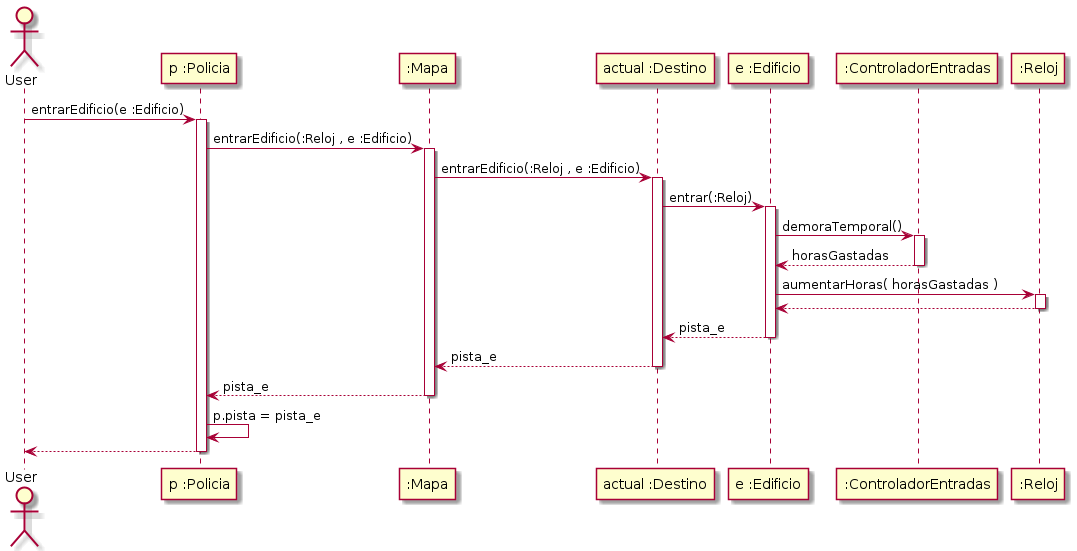
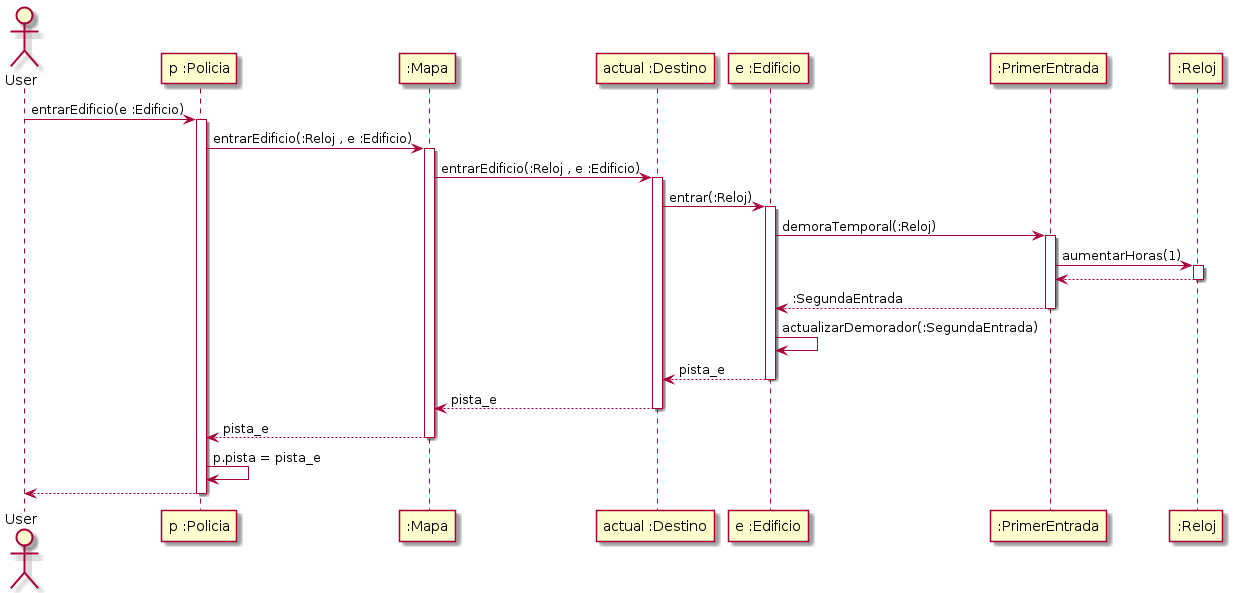
Refactor uso de clase Reloj

diff --git a/src/main/test/edu/fiuba/algo3/modelo/RangoTest.java b/src/main/test/edu/fiuba/algo3/modelo/RangoTest.java
@@ -1,87 +1,128 @@
 package edu.fiuba.algo3.modelo;
 
+import edu.fiuba.algo3.modelo.reloj.Reloj;
 import org.junit.jupiter.api.Test;
 import static org.junit.jupiter.api.Assertions.*;
 
 public class RangoTest {
     @Test
     public void rangoNovatoTardaCuatroHorasEnRecorrer3600() {
+        Reloj reloj = new Reloj();
         Rango rango = new Novato();
-        assertEquals(4, rango.demoraPorDistancia(3600));
+
+        rango.demoraPorDistancia(3600, reloj);
+
+        assertEquals("Lunes , 11:00", reloj.fechaActual());
     }
 
     @Test
     public void rangoNovatoTardaDosHorasEnRecorrer2000() {
-        //2000/900 < 2.5 - Redondea para abajo
+        Reloj reloj = new Reloj();
         Rango rango = new Novato();
-        assertEquals(2, rango.demoraPorDistancia(2000));
+
+        rango.demoraPorDistancia(2000, reloj);
+
+        assertEquals("Lunes , 9:00", reloj.fechaActual());
     }
 
     @Test
     public void rangoNovatoTardaDosHorasEnRecorrer1500(){
-        //1500/900 > 1.5 - Redondea para arriba
+        Reloj reloj = new Reloj();
         Rango rango = new Novato();
-        assertEquals(2, rango.demoraPorDistancia(1500));
+
+        rango.demoraPorDistancia(1500, reloj);
+
+        assertEquals("Lunes , 9:00", reloj.fechaActual());
     }
 
     @Test
     public void rangoDetectiveTardaCuatroHorasEnRecorrer4400(){
+        Reloj reloj = new Reloj();
         Rango rango = new Detective();
-        assertEquals(4, rango.demoraPorDistancia(4400));
+
+        rango.demoraPorDistancia(4400, reloj);
+
+        assertEquals("Lunes , 11:00", reloj.fechaActual());
     }
 
     @Test
     public void rangoDetectiveTardaDosHorasEnRecorrer2500() {
-        //2500/1100 < 2.5 - Redondea para abajo
+        Reloj reloj = new Reloj();
         Rango rango = new Detective();
-        assertEquals(2, rango.demoraPorDistancia(2500));
+
+        rango.demoraPorDistancia(2500, reloj);
+
+        assertEquals("Lunes , 9:00", reloj.fechaActual());
     }
 
     @Test
     public void rangoDetectiveTardaDosHorasEnRecorrer2000(){
-        //2000/1100 > 1.5 - Redondea para arriba
+        Reloj reloj = new Reloj();
         Rango rango = new Detective();
-        assertEquals(2, rango.demoraPorDistancia(2000));
+
+        rango.demoraPorDistancia(2000, reloj);
+
+        assertEquals("Lunes , 9:00", reloj.fechaActual());
     }
 
     @Test
     public void rangoInvestigadorTardaCuatroHorasEnRecorrer5200(){
+        Reloj reloj = new Reloj();
         Rango rango = new Investigador();
-        assertEquals(4, rango.demoraPorDistancia(5200));
+
+        rango.demoraPorDistancia(5200, reloj);
+
+        assertEquals("Lunes , 11:00", reloj.fechaActual());
     }
 
     @Test
     public void rangoInvestigadorTardaDosHorasEnRecorrer3000() {
-        //2500/1100 < 2.5 - Redondea para abajo
+        Reloj reloj = new Reloj();
         Rango rango = new Investigador();
-        assertEquals(2, rango.demoraPorDistancia(3000));
+
+        rango.demoraPorDistancia(3000, reloj);
+
+        assertEquals("Lunes , 9:00", reloj.fechaActual());
     }
 
     @Test
     public void rangoInvestigadorTardaDosHorasEnRecorrer2000(){
-        //2000/1100 > 1.5 - Redondea para arriba
+        Reloj reloj = new Reloj();
         Rango rango = new Investigador();
-        assertEquals(2, rango.demoraPorDistancia(2000));
+
+        rango.demoraPorDistancia(2000, reloj);
+
+        assertEquals("Lunes , 9:00", reloj.fechaActual());
     }
 
     @Test
     public void rangoSargentoTardaCuatroHorasEnRecorrer6000(){
+        Reloj reloj = new Reloj();
         Rango rango = new Sargento();
-        assertEquals(4, rango.demoraPorDistancia(6000));
+
+        rango.demoraPorDistancia(6000, reloj);
+
+        assertEquals("Lunes , 11:00", reloj.fechaActual());
     }
 
     @Test
     public void rangoSargentoTardaDosHorasEnRecorrer3500() {
-        //2500/1100 < 2.5 - Redondea para abajo
+        Reloj reloj = new Reloj();
         Rango rango = new Sargento();
-        assertEquals(2, rango.demoraPorDistancia(3500));
+
+        rango.demoraPorDistancia(3500, reloj);
+
+        assertEquals("Lunes , 9:00", reloj.fechaActual());
     }
 
     @Test
     public void rangoSargentoTardaDosHorasEnRecorrer2500(){
-        //2000/1100 > 1.5 - Redondea para arriba
+        Reloj reloj = new Reloj();
         Rango rango = new Sargento();
-        assertEquals(2, rango.demoraPorDistancia(2500));
+
+        rango.demoraPorDistancia(2500, reloj);
+
+        assertEquals("Lunes , 9:00", reloj.fechaActual());
     }
 
 }

diff --git a/src/main/java/edu/fiuba/algo3/modelo/Edificio.java b/src/main/java/edu/fiuba/algo3/modelo/Edificio.java
@@ -1,19 +1,21 @@
 package edu.fiuba.algo3.modelo;
 
+import edu.fiuba.algo3.modelo.demorador.DemoradorPorEntradas;
+import edu.fiuba.algo3.modelo.demorador.PrimerEntrada;
 import edu.fiuba.algo3.modelo.reloj.Reloj;
 
 public class Edificio {
 
     protected final Pista pista;
-    private final ControladorEntradas controlador;
+    private DemoradorPorEntradas demorador;
 
     public Edificio(Pista entrada){
         this.pista = entrada;
-        this.controlador = new ControladorEntradas();
+        this.demorador = new PrimerEntrada();
     }
 
     public Pista entrar(Reloj reloj) {
-        reloj.aumentarHoras(controlador.demoraTemporal());
+        this.demorador = demorador.demoraTemporal(reloj);
         return this.pista;
     }
 

diff --git a/src/main/java/edu/fiuba/algo3/modelo/Novato.java b/src/main/java/edu/fiuba/algo3/modelo/Novato.java
@@ -1,5 +1,7 @@
 package edu.fiuba.algo3.modelo;
 
+import edu.fiuba.algo3.modelo.reloj.Reloj;
+
 public class Novato implements Rango {
     private int arrestos;
     private int arrestosMaximos;
@@ -10,8 +12,8 @@ public class Novato implements Rango {
     }
 
     @Override
-    public int demoraPorDistancia(double distancia) {
-        return (int)Math.round(distancia/900.00);
+    public void demoraPorDistancia(double distancia, Reloj reloj) {
+        reloj.aumentarHoras( (int)Math.round(distancia/900.00) );
     }
     @Override
     public int cantidadDeArrestos(){return arrestos;}

diff --git a/src/main/java/edu/fiuba/algo3/modelo/Investigador.java b/src/main/java/edu/fiuba/algo3/modelo/Investigador.java
@@ -1,5 +1,7 @@
 package edu.fiuba.algo3.modelo;
 
+import edu.fiuba.algo3.modelo.reloj.Reloj;
+
 public class Investigador implements Rango {
 
     private int arrestos, arrestosMaximos;
@@ -10,8 +12,8 @@ public class Investigador implements Rango {
     }
 
     @Override
-    public int demoraPorDistancia(double distancia) {
-        return (int)Math.round(distancia/1300.00);
+    public void demoraPorDistancia(double distancia, Reloj reloj) {
+        reloj.aumentarHoras( (int)Math.round(distancia/1300.00) );
     }
     @Override
     public int cantidadDeArrestos(){return arrestos;}

diff --git a/src/main/java/edu/fiuba/algo3/modelo/Sargento.java b/src/main/java/edu/fiuba/algo3/modelo/Sargento.java
@@ -1,5 +1,7 @@
 package edu.fiuba.algo3.modelo;
 
+import edu.fiuba.algo3.modelo.reloj.Reloj;
+
 public class Sargento implements Rango {
     private int arrestos;
 
@@ -7,8 +9,8 @@ public class Sargento implements Rango {
         this.arrestos = 20;
     }
     @Override
-    public int demoraPorDistancia(double distancia) {
-        return (int)Math.round(distancia/1500.00);
+    public void demoraPorDistancia(double distancia, Reloj reloj) {
+        reloj.aumentarHoras( (int)Math.round(distancia/1500.00) );
     }
     @Override
     public int cantidadDeArrestos(){return arrestos;}

diff --git a/src/main/java/edu/fiuba/algo3/modelo/Detective.java b/src/main/java/edu/fiuba/algo3/modelo/Detective.java
@@ -1,5 +1,7 @@
 package edu.fiuba.algo3.modelo;
 
+import edu.fiuba.algo3.modelo.reloj.Reloj;
+
 public class Detective implements Rango {
 
     private int arrestos, arrestosMaximos;
@@ -10,8 +12,8 @@ public class Detective implements Rango {
     }
 
     @Override
-    public int demoraPorDistancia(double distancia) {
-        return (int)Math.round(distancia/1100.00);
+    public void demoraPorDistancia(double distancia, Reloj reloj) {
+        reloj.aumentarHoras( (int)Math.round(distancia/1100.00) );
     }
     @Override
     public int cantidadDeArrestos(){return arrestos;}

diff --git a/src/main/java/edu/fiuba/algo3/modelo/demorador/TercerEntrada.java b/src/main/java/edu/fiuba/algo3/modelo/demorador/TercerEntrada.java
@@ -1,11 +1,10 @@
 package edu.fiuba.algo3.modelo.demorador;
 
-public class TercerEntrada implements DemoradorPorEntradas {
-    public int demoraTemporal(){
-        return 3;
-    }
+import edu.fiuba.algo3.modelo.reloj.Reloj;
 
-    public DemoradorPorEntradas aumentar(){
+public class TercerEntrada implements DemoradorPorEntradas {
+    public DemoradorPorEntradas demoraTemporal(Reloj reloj){
+        reloj.aumentarHoras(3);
         return this;
     }
 }

diff --git a/src/main/java/edu/fiuba/algo3/modelo/demorador/SegundaEntrada.java b/src/main/java/edu/fiuba/algo3/modelo/demorador/SegundaEntrada.java
@@ -1,12 +1,11 @@
 package edu.fiuba.algo3.modelo.demorador;
 
+import edu.fiuba.algo3.modelo.reloj.Reloj;
+
 public class SegundaEntrada implements DemoradorPorEntradas {
 
-    public int demoraTemporal(){
-        return 2;
-    }
-
-    public DemoradorPorEntradas aumentar(){
-        return new TercerEntrada();
+    public DemoradorPorEntradas demoraTemporal(Reloj reloj){
+        reloj.aumentarHoras(2);
+        return new SegundaEntrada();
     }
 }

diff --git a/src/main/java/edu/fiuba/algo3/modelo/demorador/PrimerEntrada.java b/src/main/java/edu/fiuba/algo3/modelo/demorador/PrimerEntrada.java
@@ -1,12 +1,12 @@
 package edu.fiuba.algo3.modelo.demorador;
 
+import edu.fiuba.algo3.modelo.reloj.Reloj;
+
 public class PrimerEntrada implements DemoradorPorEntradas {
 
-    public int demoraTemporal(){
-        return 1;
-    }
-
-    public DemoradorPorEntradas aumentar(){
+    public DemoradorPorEntradas demoraTemporal(Reloj reloj){
+        reloj.aumentarHoras(1);
         return new SegundaEntrada();
     }
+
 }

diff --git a/src/main/java/edu/fiuba/algo3/modelo/Policia.java b/src/main/java/edu/fiuba/algo3/modelo/Policia.java
@@ -43,7 +43,7 @@ public class Policia {
     }
 
     public void viajar(Destino destino) {
-        this.reloj.aumentarHoras(this.rango.demoraPorDistancia(this.mapa.viajar(destino)));
+        this.rango.demoraPorDistancia(this.mapa.viajar(destino), reloj);
     }
 
     public void recibirCuchillada() {

diff --git a/src/main/java/edu/fiuba/algo3/modelo/Rango.java b/src/main/java/edu/fiuba/algo3/modelo/Rango.java
@@ -1,10 +1,12 @@
 package edu.fiuba.algo3.modelo;
 
+import edu.fiuba.algo3.modelo.reloj.Reloj;
+
 public interface Rango {
 
     int cantidadDeArrestos();
 
-    int demoraPorDistancia(double distancia);
+    void demoraPorDistancia(double distancia, Reloj reloj);
 
     Rango sumarArresto();
 }

diff --git a/src/main/java/edu/fiuba/algo3/modelo/demorador/DemoradorPorEntradas.java b/src/main/java/edu/fiuba/algo3/modelo/demorador/DemoradorPorEntradas.java
@@ -1,8 +1,9 @@
 package edu.fiuba.algo3.modelo.demorador;
 
+import edu.fiuba.algo3.modelo.reloj.Reloj;
+
 public interface DemoradorPorEntradas {
 
-    int demoraTemporal();
+    DemoradorPorEntradas demoraTemporal(Reloj reloj);
 
-    DemoradorPorEntradas aumentar();
 }
